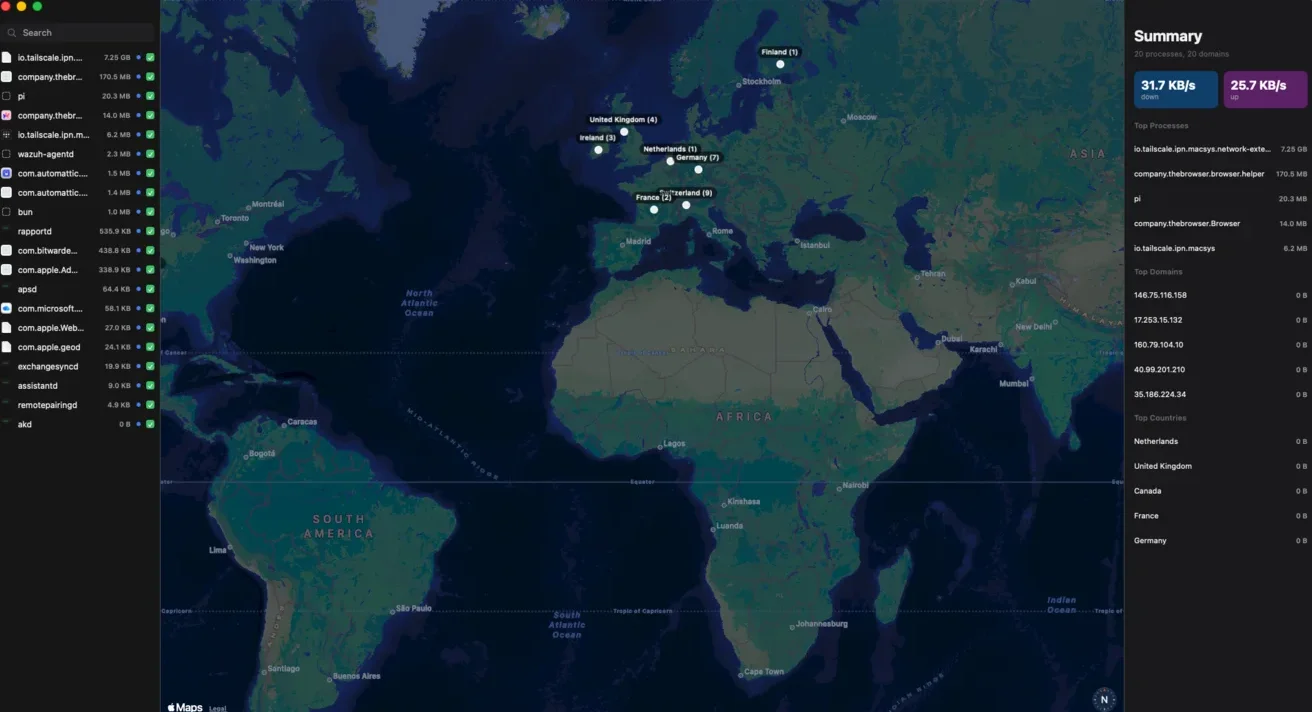
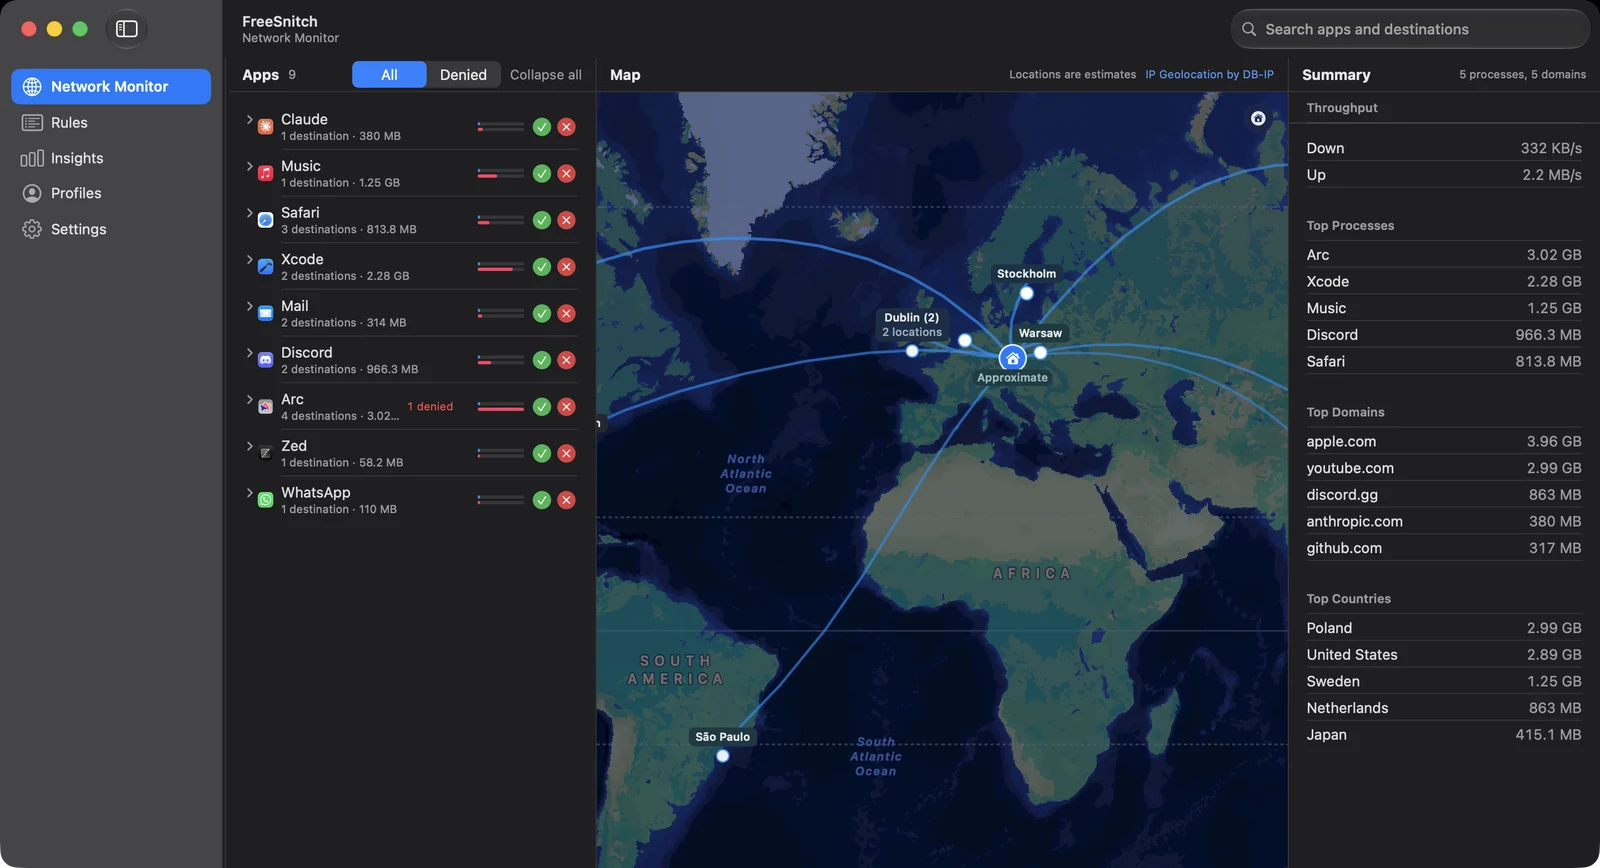
Home: FreeSnitch 1.0 and new Spotiglass screenshots; Spotiglass stage crossfades to its command palette
- images/home/freesnitch.webp: real 1.0 UI (1600x868), spotiglass-real.webp 1600x1042
- stage-shot takes an optional img2: two same-size shots crossfade every 3.6 s while on screen,
  static with reduced motion

diff --git a/assets/js/home.js b/assets/js/home.js
@@ -129,6 +129,18 @@
     vio.observe(vault);
   }
 
+  /* two-screenshot stages crossfade every few seconds while on screen */
+  document.querySelectorAll('.shot.swap').forEach(function (shot) {
+    if (reduce) return;
+    var t = null;
+    new IntersectionObserver(function (es) {
+      es.forEach(function (e) {
+        if (e.isIntersecting && !t) t = setInterval(function () { shot.classList.toggle('flip'); }, 3600);
+        else if (!e.isIntersecting && t) { clearInterval(t); t = null; }
+      });
+    }, { threshold: .3 }).observe(shot);
+  });
+
   /* demo video plays only while on screen; reduced motion gets controls instead */
   document.querySelectorAll('.shot.video video').forEach(function (vid) {
     if (reduce) { vid.controls = true; return; }

diff --git a/layouts/partials/home/stage-shot.html b/layouts/partials/home/stage-shot.html
@@ -1,1 +1,8 @@
-<div class="shot wide"><img src="{{ printf "images/%s" .img | relURL }}" alt="{{ .alt }}" width="{{ .width }}" height="{{ .height }}" loading="lazy" decoding="async"></div>
+{{- /* A real screenshot. With img2 (same size) the two crossfade while the
+       stage is on screen (home.js); with reduced motion only img shows. */ -}}
+<div class="shot wide{{ if .img2 }} swap{{ end }}">
+  <img src="{{ printf "images/%s" .img | relURL }}" alt="{{ .alt }}" width="{{ .width }}" height="{{ .height }}" loading="lazy" decoding="async">
+  {{- with .img2 }}
+  <img class="alt" src="{{ printf "images/%s" . | relURL }}" alt="{{ $.alt2 }}" width="{{ $.width }}" height="{{ $.height }}" loading="lazy" decoding="async">
+  {{- end }}
+</div>

diff --git a/assets/css/_home.scss b/assets/css/_home.scss
@@ -559,6 +559,18 @@
       top: 50%;
       transform: translateY(-50%);
     }
+
+    // Second screenshot on top of the first, faded in by home.js.
+    &.swap .alt {
+      position: absolute;
+      inset: 0;
+      opacity: 0;
+      transition: opacity .9s var(--ease);
+    }
+
+    &.swap.flip .alt {
+      opacity: 1;
+    }
   }
 
   .commit:hover .shot {
